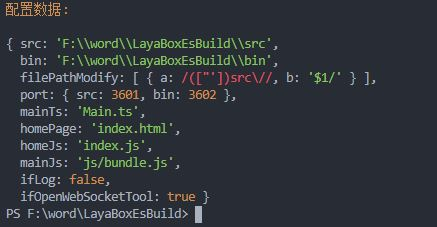
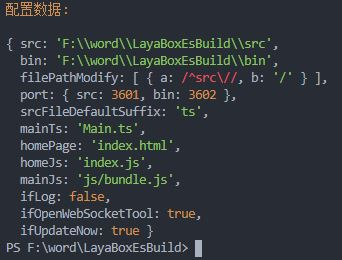
加入了浏览器即时刷新的功能，测试把资源分配到多个域中进行加载的功能，但是由于速度提升不明显，而且影响调试而果断放弃。

diff --git a/public/alertTool.js b/public/alertTool.js
@@ -108,30 +108,20 @@ window.addEventListener('load', function () {
             }
         });
 
-        //监听页面焦点事件
-        // window.addEventListener('visibilitychange', function () {
-        //     //
-        //     if (document['visible']) {
-        //         // 失去焦点
-        //     } else {
-        //         // 获取焦点
-        //         if (!_ifConfirm && _updateNumber > 0) {
-        //             _ifConfirm = true;
-        //             //
-        //             confirmEx('项目内容有更新,点击确认或按Enter键刷新页面', (flag) => {
-        //                 _updateNumber = 0;
-        //                 _ifConfirm = false;
-        //                 //判断状态
-        //                 if (flag) {
-        //                     //刷新页面
-        //                     location.reload();
-        //                 } else {
-        //                     //
-        //                     // console.log('取消');
-        //                 }
-        //             });
-        //         }
-        //     }
-        // });
+        // 监听页面焦点事件
+        if ($ifUpdateNow) {
+            window.addEventListener('visibilitychange', function () {
+                //
+                if (document['visible']) {
+                    // 失去焦点
+                } else {
+                    // 获取焦点
+                    if (_updateNumber > 0) {
+                        //刷新页面
+                        location.reload();
+                    }
+                }
+            });
+        }
     })();
 });

diff --git a/dist/dirProxy/bin/BinTool.js b/dist/dirProxy/bin/BinTool.js
@@ -44,6 +44,10 @@ class BinTool {
                     case new RegExp(`^/?${MyConfig_1.default.webToolJsName.sw}$`).test(_url):
                         _content = _content.replace('${{hostname}}', HttpTool_1.default.getHostname).replace('${{webSocketPort}}', MyConfig_1.default.webSocketPort + '');
                         break;
+                    //alert工具脚本需要替换是否时刻刷新浏览器的变量
+                    case new RegExp(`^/?${MyConfig_1.default.webToolJsName.alert}$`).test(_url):
+                        _content = _content.replace('$ifUpdateNow', Boolean(MainConfig_1.default.config.ifUpdateNow).toString());
+                        break;
                 }
                 //存入缓存
                 this.m_webToolJs[_url] = _content;
@@ -72,7 +76,7 @@ class BinTool {
 <script type="text/javascript" src="${ResURL_1.default.publicDirName}/${MyConfig_1.default.webToolJsName.main}"></script>
 <script type="text/javascript" src="${ResURL_1.default.publicDirName}/${MyConfig_1.default.webToolJsName.swTool}"></script>
 <script type="text/javascript" src="${ResURL_1.default.publicDirName}/${MyConfig_1.default.webToolJsName.webSocket}"></script>
-<script type="text/javascript" src="${ResURL_1.default.publicDirName}/${MyConfig_1.default.webToolJsName.alert}"></script>
+${MainConfig_1.default.config.ifOpenWebSocketTool ? `<script type="text/javascript" src="${ResURL_1.default.publicDirName}/${MyConfig_1.default.webToolJsName.alert}"></script>` : ''}
 </head>
                 `);
                 //在所有脚本前加上webload脚本

diff --git a/src/dirProxy/bin/BinTool.ts b/src/dirProxy/bin/BinTool.ts
@@ -49,6 +49,10 @@ export default class BinTool {
                     case new RegExp(`^/?${MyConfig.webToolJsName.sw}$`).test(_url):
                         _content = _content.replace('${{hostname}}', HttpTool.getHostname).replace('${{webSocketPort}}', MyConfig.webSocketPort + '');
                         break;
+                    //alert工具脚本需要替换是否时刻刷新浏览器的变量
+                    case new RegExp(`^/?${MyConfig.webToolJsName.alert}$`).test(_url):
+                        _content = _content.replace('$ifUpdateNow', Boolean(MainConfig.config.ifUpdateNow).toString());
+                        break;
                 }
                 //存入缓存
                 this.m_webToolJs[_url] = _content;
@@ -78,7 +82,7 @@ export default class BinTool {
 <script type="text/javascript" src="${ResURL.publicDirName}/${MyConfig.webToolJsName.main}"></script>
 <script type="text/javascript" src="${ResURL.publicDirName}/${MyConfig.webToolJsName.swTool}"></script>
 <script type="text/javascript" src="${ResURL.publicDirName}/${MyConfig.webToolJsName.webSocket}"></script>
-<script type="text/javascript" src="${ResURL.publicDirName}/${MyConfig.webToolJsName.alert}"></script>
+${MainConfig.config.ifOpenWebSocketTool ? `<script type="text/javascript" src="${ResURL.publicDirName}/${MyConfig.webToolJsName.alert}"></script>` : ''}
 </head>
                 `);
                 //在所有脚本前加上webload脚本

diff --git a/src/dirProxy/src/SrcTransition.ts b/src/dirProxy/src/SrcTransition.ts
@@ -27,15 +27,15 @@ export default class SrcTransition {
      */
     public static tsBuildBack(_content: string): string {
         //处理路径
-        _content = _content.replace(/import.*?["'](.*?)["'];/g, (text) => {
+        _content = _content.replace(/import.*?["'](.*?)["'];/g, (text, $1) => {
+            let _$1: string = $1;
             if (MainConfig.config.filePathModify && MainConfig.config.filePathModify.length > 0) {
                 for (let _o of MainConfig.config.filePathModify) {
-                    text = text.replace(/["'].*?["']/, (_text) => {
-                        return _text.replace(_o.a, _o.b);
-                    });
+                    _$1 = _$1.replace(_o.a, _o.b);
                 }
             }
-            return text;
+            //
+            return text.replace($1, _$1);
         });
         //
         return _content;

diff --git a/dist/dirProxy/src/SrcTransition.js b/dist/dirProxy/src/SrcTransition.js
@@ -27,15 +27,15 @@ class SrcTransition {
      */
     static tsBuildBack(_content) {
         //处理路径
-        _content = _content.replace(/import.*?["'](.*?)["'];/g, (text) => {
+        _content = _content.replace(/import.*?["'](.*?)["'];/g, (text, $1) => {
+            let _$1 = $1;
             if (MainConfig_1.default.config.filePathModify && MainConfig_1.default.config.filePathModify.length > 0) {
                 for (let _o of MainConfig_1.default.config.filePathModify) {
-                    text = text.replace(/["'].*?["']/, (_text) => {
-                        return _text.replace(_o.a, _o.b);
-                    });
+                    _$1 = _$1.replace(_o.a, _o.b);
                 }
             }
-            return text;
+            //
+            return text.replace($1, _$1);
         });
         //
         return _content;

diff --git a/config.js b/config.js
@@ -7,8 +7,8 @@ module.exports = {
     /** 文件路径修改，会把 a 匹配的替换成 b */
     filePathModify: [
         {
-            a: /(["'])src\//,
-            b: '$1/'
+            a: /^src\//,
+            b: '/'
         }
     ],
     /** 代理端口，可以随便指定，只要不冲突就行 */
@@ -16,6 +16,8 @@ module.exports = {
         src: 3601,
         bin: 3602,
     },
+    /** src目录文件默认后缀  */
+    srcFileDefaultSuffix: 'ts',
     /** 入口文件名，地址相对于src目录 */
     mainTs: 'Main.ts',
     /** 主页， 相对于bin目录 */
@@ -28,4 +30,6 @@ module.exports = {
     ifLog: false,
     /** 是否启用webSocket工具 */
     ifOpenWebSocketTool: true,
+    /** 是否立即刷新浏览器 */
+    ifUpdateNow: true,
 };

diff --git a/src/com/FileModule.ts b/src/com/FileModule.ts
@@ -20,7 +20,7 @@ export default class FileModule {
     /** 绝对路径 */
     private m_absolutePath: string;
     /** 后缀 */
-    private m_suffix: string = 'ts';
+    private m_suffix: string;
 
     /** 任务 */
     private m_task: Promise<FileModule> = new Promise((r) => { r(this); });
@@ -78,6 +78,7 @@ export default class FileModule {
         //剔除后缀
         this.m_url = _url.replace(/\.[^\.]*?$/, '');
         //提取后缀
+        this.m_suffix = MainConfig.config.srcFileDefaultSuffix;
         let _suffix = _url.match(/\.([^\.]*?)$/);
         _suffix && (this.m_suffix = _suffix[1]);
         //

diff --git a/dist/com/FileModule.js b/dist/com/FileModule.js
@@ -13,8 +13,6 @@ class FileModule {
      * @param _url 模块路径
      */
     constructor(_url) {
-        /** 后缀 */
-        this.m_suffix = 'ts';
         /** 任务 */
         this.m_task = new Promise((r) => { r(this); });
         /** 内容 */
@@ -24,6 +22,7 @@ class FileModule {
         //剔除后缀
         this.m_url = _url.replace(/\.[^\.]*?$/, '');
         //提取后缀
+        this.m_suffix = MainConfig_1.default.config.srcFileDefaultSuffix;
         let _suffix = _url.match(/\.([^\.]*?)$/);
         _suffix && (this.m_suffix = _suffix[1]);
         //

diff --git a/src/config/IConfig.ts b/src/config/IConfig.ts
@@ -16,6 +16,8 @@ export default interface IConfig {
         src: number,
         bin: number,
     },
+    /** src目录文件默认后缀  */
+    srcFileDefaultSuffix: string,
     /** 入口文件名，地址相对于src目录 */
     mainTs?: string,
     /** 主页地址， 相对于bin目录 */
@@ -28,4 +30,6 @@ export default interface IConfig {
     ifLog?: boolean,
     /** 是否启用webSocket工具 */
     ifOpenWebSocketTool?: boolean,
+    /** 是否立即刷新浏览器 */
+    ifUpdateNow: boolean,
 }

diff --git a/testConfig.js b/testConfig.js
@@ -4,4 +4,7 @@ module.exports = {
     src: './test/src/',
     /** 代理bin目录，可以是绝对路径或者相对路径 */
     bin: './test/bin/',
+    //
+    // src: 'F:/word/shotgame/src',
+    // bin: 'F:/word/shotgame/bin',
 }

diff --git a/test/src/Main.ts b/test/src/Main.ts
@@ -1,5 +1,6 @@
 import _module from './module.txt';
 import './js.test.js';
+import './com/test';
 
 console.log(_module);
 

diff --git a/test/src/com/test.ts b/test/src/com/test.ts
@@ -1,0 +1,1 @@
+console.log('test', 3);
